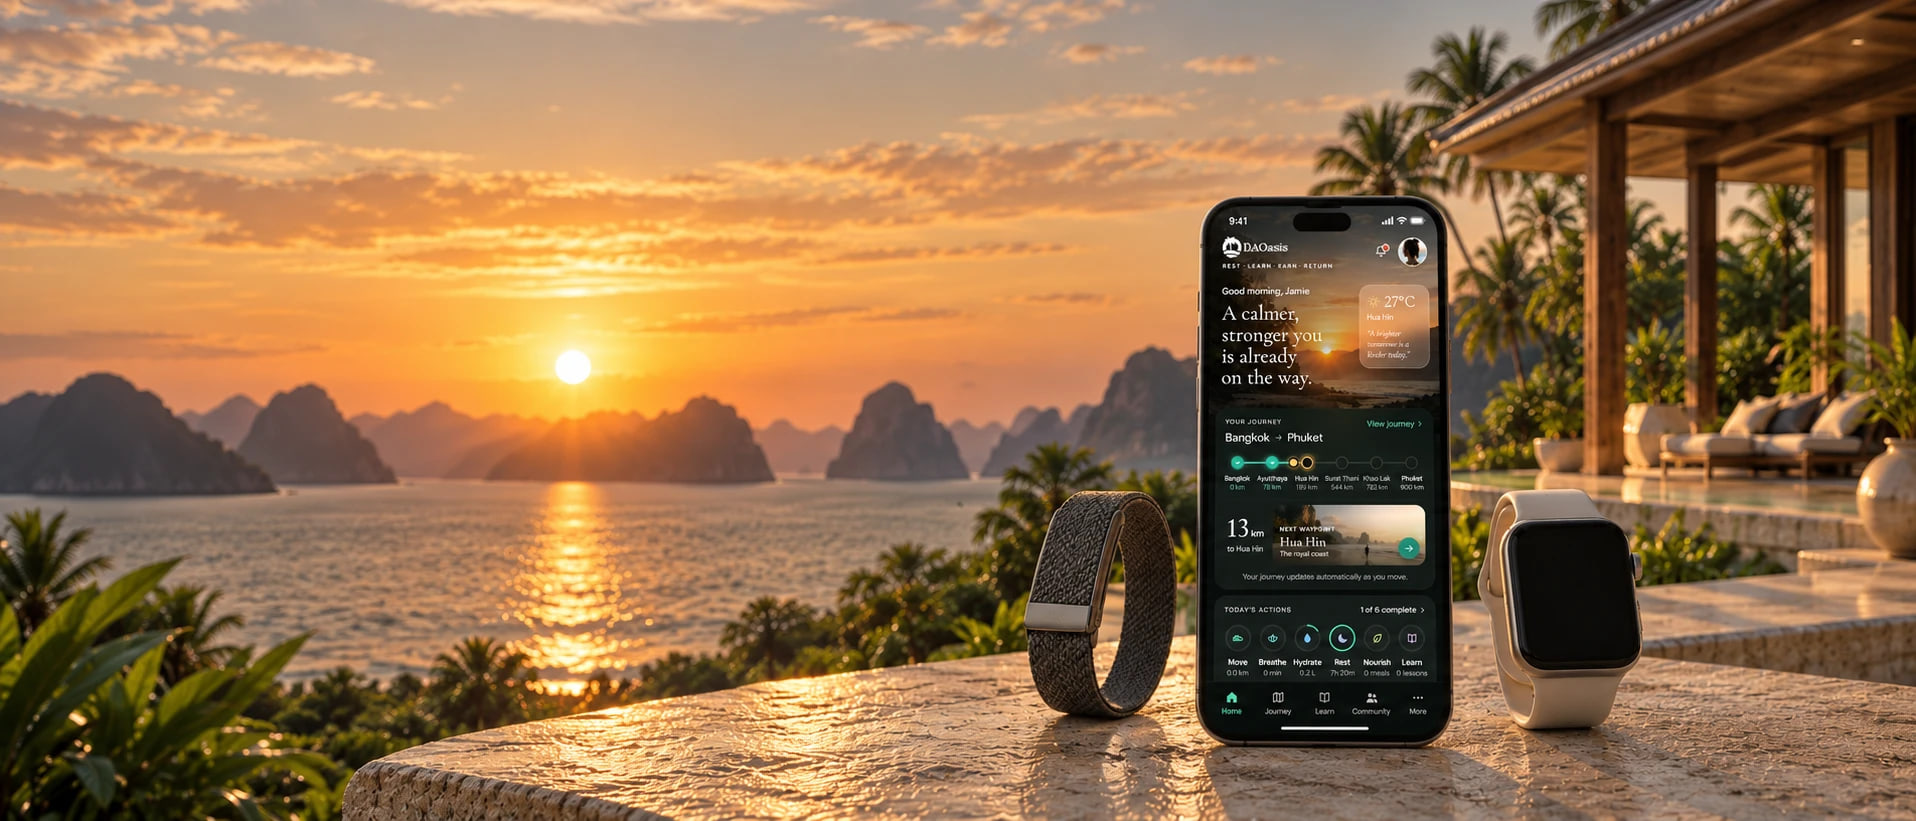
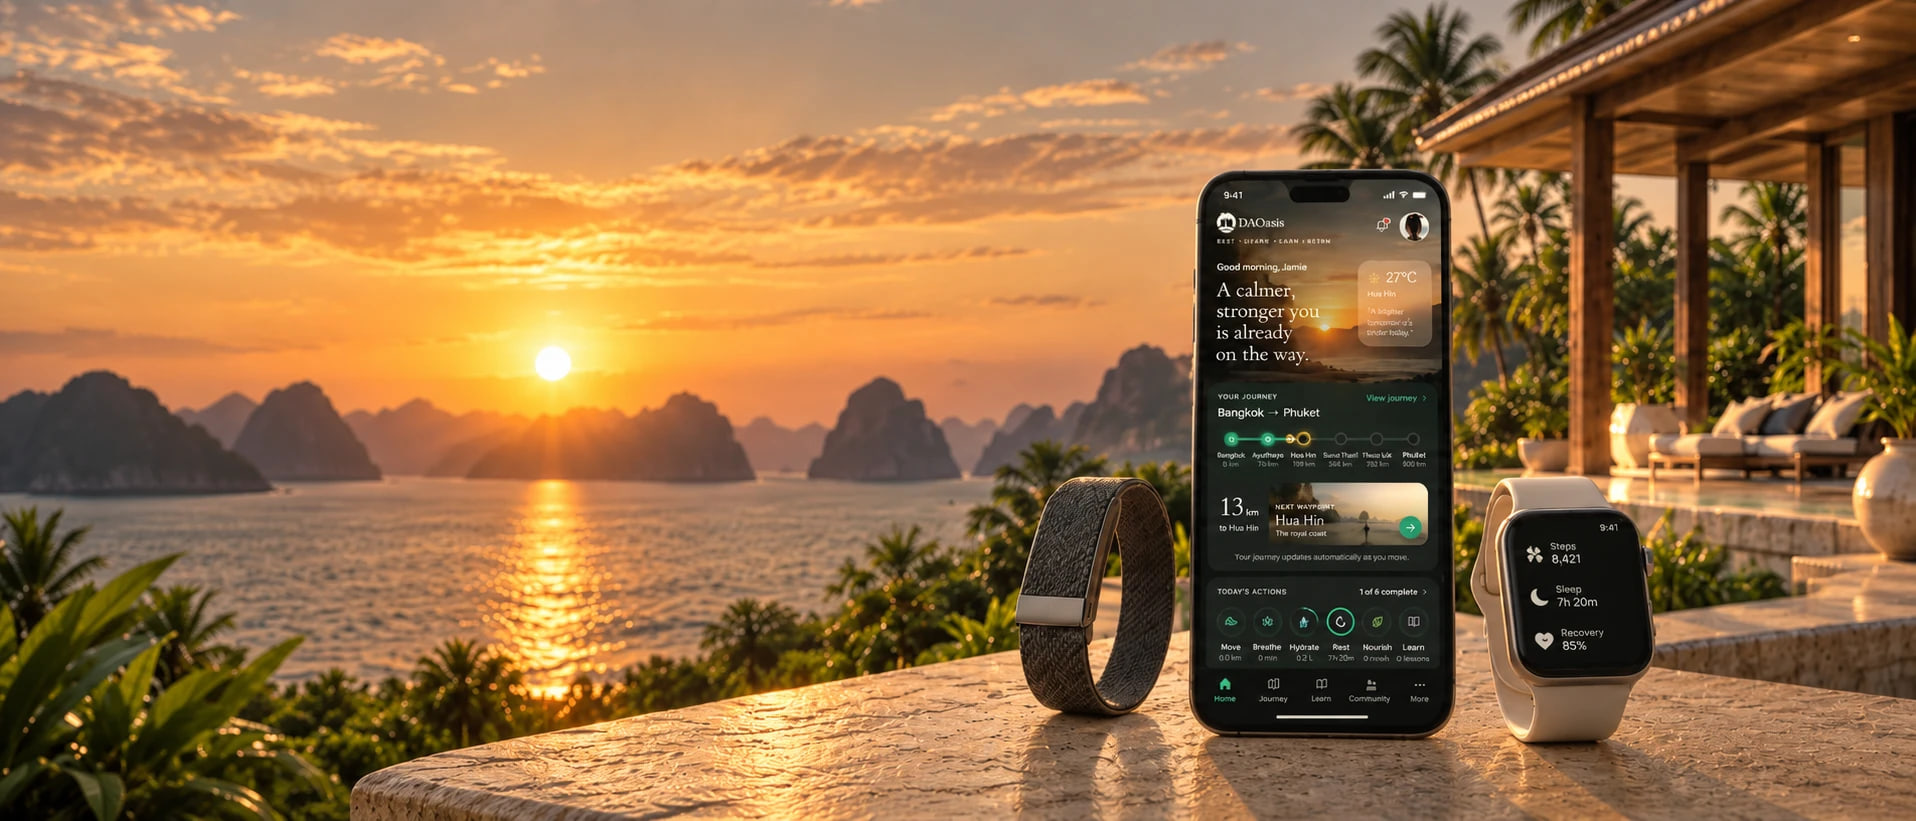
Simplify Why Now on desktop and update the desktop hero render
Desktop Why Now: one short line per beat, shift names only (no
descriptions), and the statistics moved out of the pin into a
three-figure strip after it. Mobile unchanged. New wide hero.jpg.

Claude-Session: https://claude.ai/code/session_01VKjSjrypMLQakLhtSxjyLv

diff --git a/index.html b/index.html
@@ -319,7 +319,7 @@
      window — but it makes the hero TALLER than the viewport exactly where
      the problem bites: at 1917x920 it computes to 1093px, so the phone was
      whole and 173px of it sat below the fold, which is worse than a crop.
-     The real constraint is the source image, not this rule. images/hero.jpg?v=20261008
+     The real constraint is the source image, not this rule. images/hero.jpg?v=20261009
      is 1.777:1 and its phone fills y 3.0%-95.5%, leaving 7.5% of croppable
      height; a maximised laptop viewport is ~2.08:1 and needs ~15% removed.
      Until the photograph is re-rendered wider with real headroom around the
@@ -476,7 +476,7 @@
 
   /* HERO — full bleed, type in a strong left column.
      The placement is measured, not chosen by eye. At cover, the phone in
-     images/hero.jpg?v=20261008 occupies source x 34%-58%, which lands on screen at:
+     images/hero.jpg?v=20261009 occupies source x 34%-58%, which lands on screen at:
 
          1280  x 435-742      1440  x 463-847      1920  x 652-1113
 
@@ -552,7 +552,7 @@
         rgba(20,17,15,0.30) 88%,
         rgba(247,246,242,0.35) 97%,
         var(--warm-white) 100%),
-      url('images/hero.jpg?v=20261008');
+      url('images/hero.jpg?v=20261009');
     background-size:cover,cover,cover;
     /* 7 Oct 2026, the WIDE render: 1916x821 (2.33:1), products on the
        right (band from x 53%, phone ~62-76%, watch to ~86%), phone y
@@ -1555,6 +1555,34 @@
      (.wn-after), because a phone frame cannot hold the conclusion, the
      evidence and a button at a readable size. */
   .wn-after{display:none;}
+  /* ══ DESKTOP, SIMPLIFIED — 6 October 2026 ══════════════════════════════
+     The frame carried ~180 words: four ledes with a paragraph each, six
+     one-line descriptions beside the strands, and the evidence block with
+     its footnotes. Too much to read while the diagram is moving. Now: one
+     short line per beat on the left, six names on the right, and the
+     figures after the pin. The animation is unchanged. Mobile untouched. */
+  .wn-dsk{display:none;}
+  .wn-figs{display:none;}
+  @media (min-width:901px){
+    .wn-dsk{display:inline;}
+    .wn-mob{display:none;}
+    .wn-body,.wn-phase-end .wn-evidence,.wn-phase-end .wn-src{display:none;}
+    .wn-lede{font-size:clamp(26px,min(2.5vw,4.6vh),40px);max-width:19ch;line-height:1.16;text-wrap:pretty;}
+    .wn-d{display:none;}
+    .wn-t{font-size:clamp(24px,min(2.15vw,4vh),36px);}
+    .wn-shift{column-gap:14px;}
+    .wn-cta{margin-top:clamp(20px,3.4vh,34px);}
+    .wn-figs{display:block;background:#100E0C;padding:4vh 8% calc(14vh + 64px);}
+    .wn-figs-row{display:grid;grid-template-columns:repeat(3,minmax(0,1fr));max-width:1100px;
+      border-top:1px solid rgba(232,184,138,0.22);}
+    .wn-fig{padding:clamp(22px,3.4vh,34px) clamp(16px,2.4vw,40px) 0 0;}
+    .wn-fig + .wn-fig{padding-left:clamp(16px,2.4vw,40px);border-left:1px solid rgba(232,184,138,0.14);}
+    .wn-fig-v{display:block;font-family:'Cormorant Garamond',serif;font-weight:300;
+      font-size:clamp(40px,4vw,64px);line-height:1;letter-spacing:-0.01em;color:#E8B88A;}
+    .wn-fig-l{display:block;margin-top:12px;font-size:15px;line-height:1.5;color:rgba(247,244,238,0.74);max-width:26ch;}
+    .wn-fig-l sup,.wn-figs .wn-src sup{font-size:0.72em;vertical-align:0.45em;line-height:0;}
+    .wn-figs .wn-src{display:block;margin-top:clamp(18px,3vh,28px);max-width:none;}
+  }
   @media (max-width:900px){
     .wn{height:720vh;}
     .wn-stage{display:flex;flex-direction:column;align-items:stretch;justify-content:flex-start;
@@ -3318,7 +3346,7 @@ img{height:auto;}
                only while this phase is invisible. -->
           <div class="wn-phase wn-live" aria-hidden="true"><span class="wn-n" id="wnLiveN">01</span><p class="wn-lede" id="wnLiveD">Health is shifting from treatment to everyday prevention.</p></div>
           <div class="wn-phase" data-p="0">
-            <p class="wn-lede">Six shifts that grew up as separate markets are now arriving at the same person, on the same day.</p>
+            <p class="wn-lede"><span class="wn-dsk">Six shifts.<br>One person. One&nbsp;day.</span><span class="wn-mob">Six shifts that grew up as separate markets are now arriving at the same person, on the same day.</span></p>
             <p class="wn-body">Nobody has built for the place where they meet.</p>
           </div>
           <div class="wn-phase" data-p="1">
@@ -3366,6 +3394,18 @@ img{height:auto;}
        inside the conclusion phase). -->
   <div class="wn-after">
     <p class="wn-evidence">The wellness economy reached <strong>$6.8 trillion</strong> in 2024, and mental wellness is growing at roughly <strong>twice</strong> its pace.<sup>1</sup> Gen Z averages <strong>around nine hours</strong> of screen time a day.<sup>2</sup></p>
+    <p class="wn-src"><sup>1</sup> Global Wellness Institute, Global Wellness Economy Monitor 2025 · <sup>2</sup> Cross-referenced screen-time research, 2025</p>
+  </div>
+  <!-- DESKTOP ONLY (display:none at 900px and below, where .wn-after above
+       carries the same evidence). The figures used to sit inside the pinned
+       frame under the conclusion; they are the proof, not the story, so they
+       get their own quiet beat after it. -->
+  <div class="wn-figs">
+    <div class="wn-figs-row">
+      <div class="wn-fig"><span class="wn-fig-v">$6.8T</span><span class="wn-fig-l">The global wellness economy in 2024<sup>1</sup></span></div>
+      <div class="wn-fig"><span class="wn-fig-v">2&times;</span><span class="wn-fig-l">Mental wellness, growing at twice its pace<sup>1</sup></span></div>
+      <div class="wn-fig"><span class="wn-fig-v">~9 hrs</span><span class="wn-fig-l">Gen Z&rsquo;s average screen time, every day<sup>2</sup></span></div>
+    </div>
     <p class="wn-src"><sup>1</sup> Global Wellness Institute, Global Wellness Economy Monitor 2025 · <sup>2</sup> Cross-referenced screen-time research, 2025</p>
   </div>
 

diff --git a/CLAUDE.md b/CLAUDE.md
@@ -7386,3 +7386,29 @@ above it, vertical in proportion to the headroom. Verified by eye at 1024x768,
 size, products clear of the type column. Source is 1916px wide, so a 1920x1080
 window upscales it ~1.2x; a 2400px+ render would be sharper. The interim 18%
 note above is superseded.
+
+## Why Now simplified on desktop · new desktop hero render — 6 October 2026
+
+`index.html` and `images/hero.jpg`. **Mobile is pixel-identical** (A/B against a
+pre-change copy at 390x844 and 375x667, 0 differing pixels at three scroll
+points, same docH).
+
+### Why Now, desktop only (`@media (min-width:901px)`)
+The frame carried ~180 words while the diagram was moving. Now:
+- **Left column:** headline plus ONE short line per beat. `.wn-body` hidden.
+  Beat 1 has a desktop-only version, "Six shifts. / One person. One day."
+  (`.wn-dsk`); mobile keeps the long sentence (`.wn-mob`). The last beat is
+  "DAOasis is built where they meet." plus the CTA.
+- **Right field:** the six names only, bigger (`clamp(24px,min(2.15vw,4vh),36px)`).
+  The six `.wn-d` descriptions are hidden on desktop.
+- **The evidence moved out of the pin** into `.wn-figs`, a desktop-only strip after
+  it: three figures ($6.8T · 2× · ~9 hrs) with the same two sources. Tail is
+  `14vh + 64px` so the divider mark clears the source line (104px at 1348x601).
+  `.wn-figs .wn-src` is forced visible: the short-laptop rule hides `.wn-src`.
+- Animation, timeline and geometry untouched. 0 overlaps at 1024x768, 1348x601,
+  1440x900, 1920x1080 across four points in the section.
+
+### Desktop hero
+New 1916x821 render, same framing as the last one (phone y ~21–90%), shipped as
+`hero.jpg` q86 4:4:4, 300KB, `?v=20261009`. Position `85% 72%` unchanged; whole
+phone visible and clear of the type at 1024x768 → 2560x1080.
